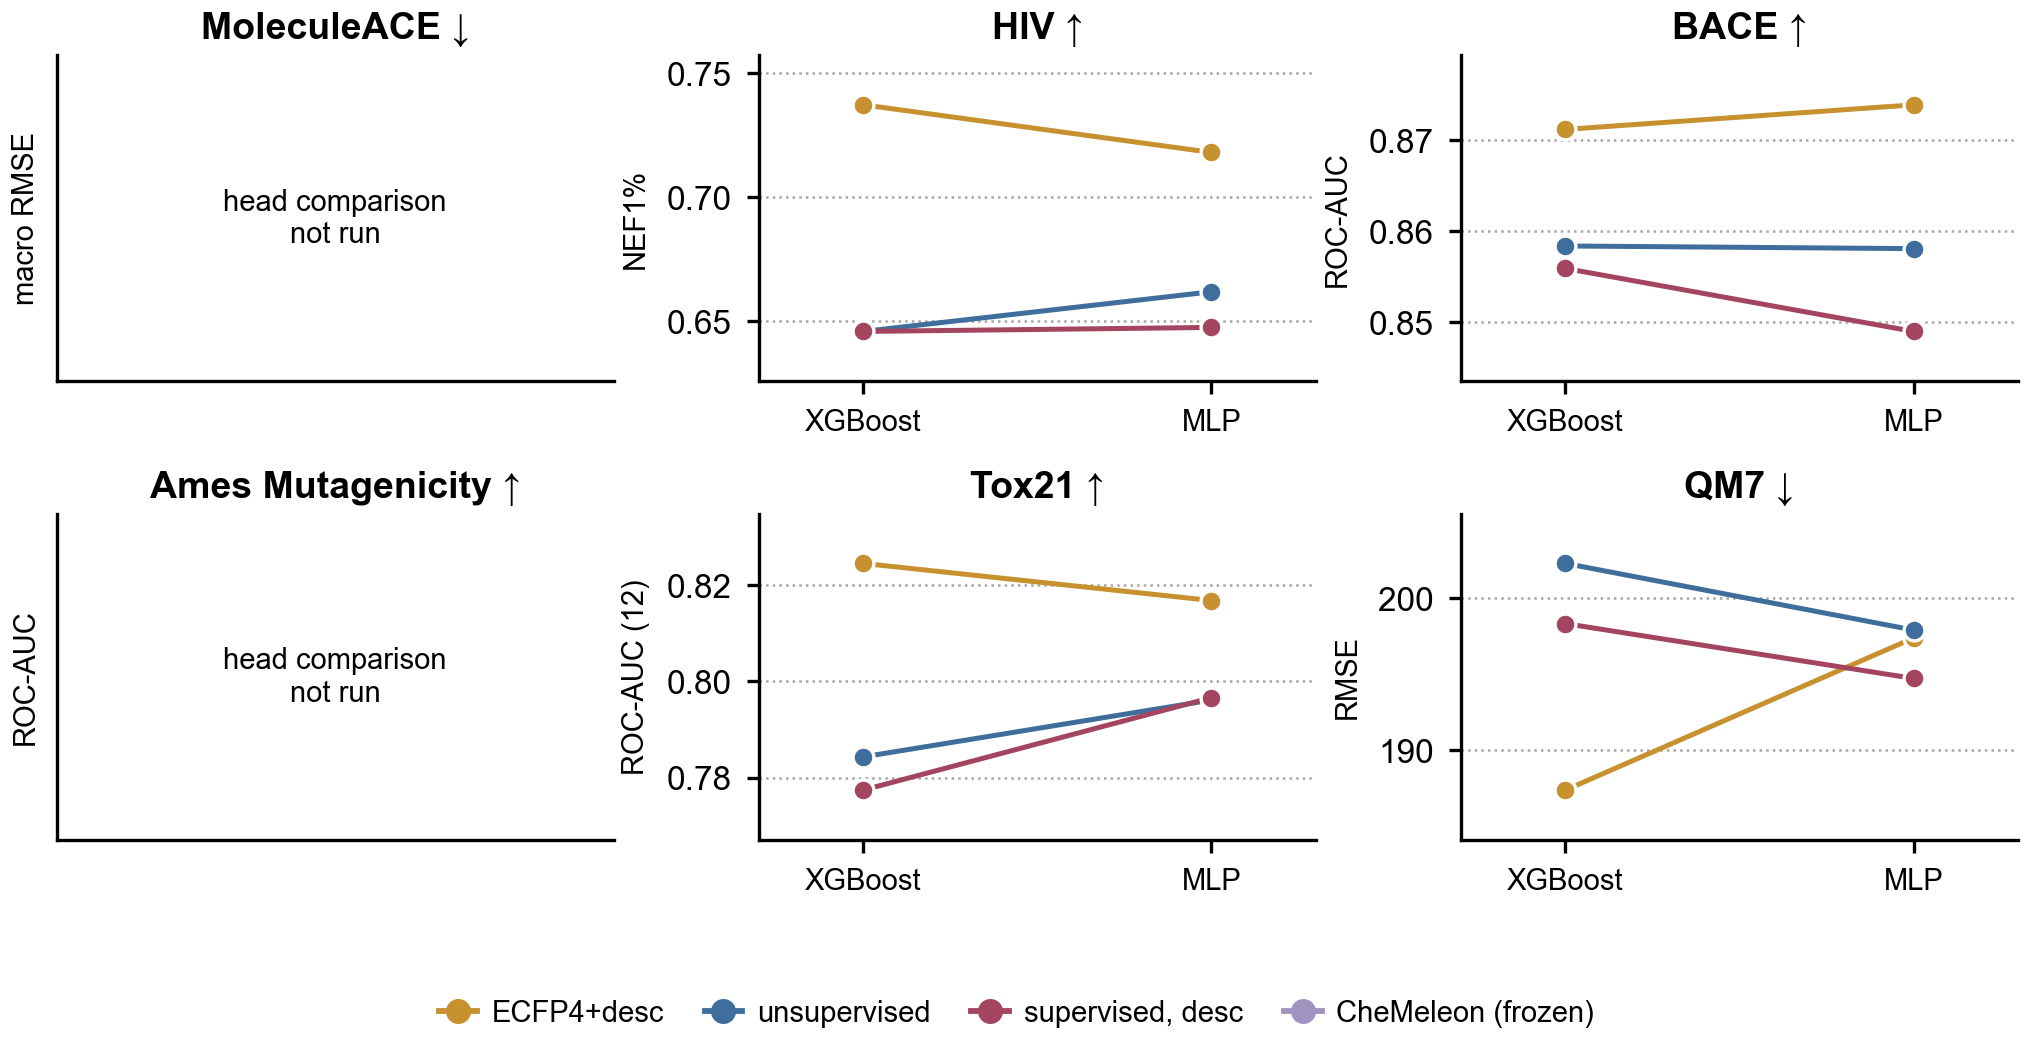
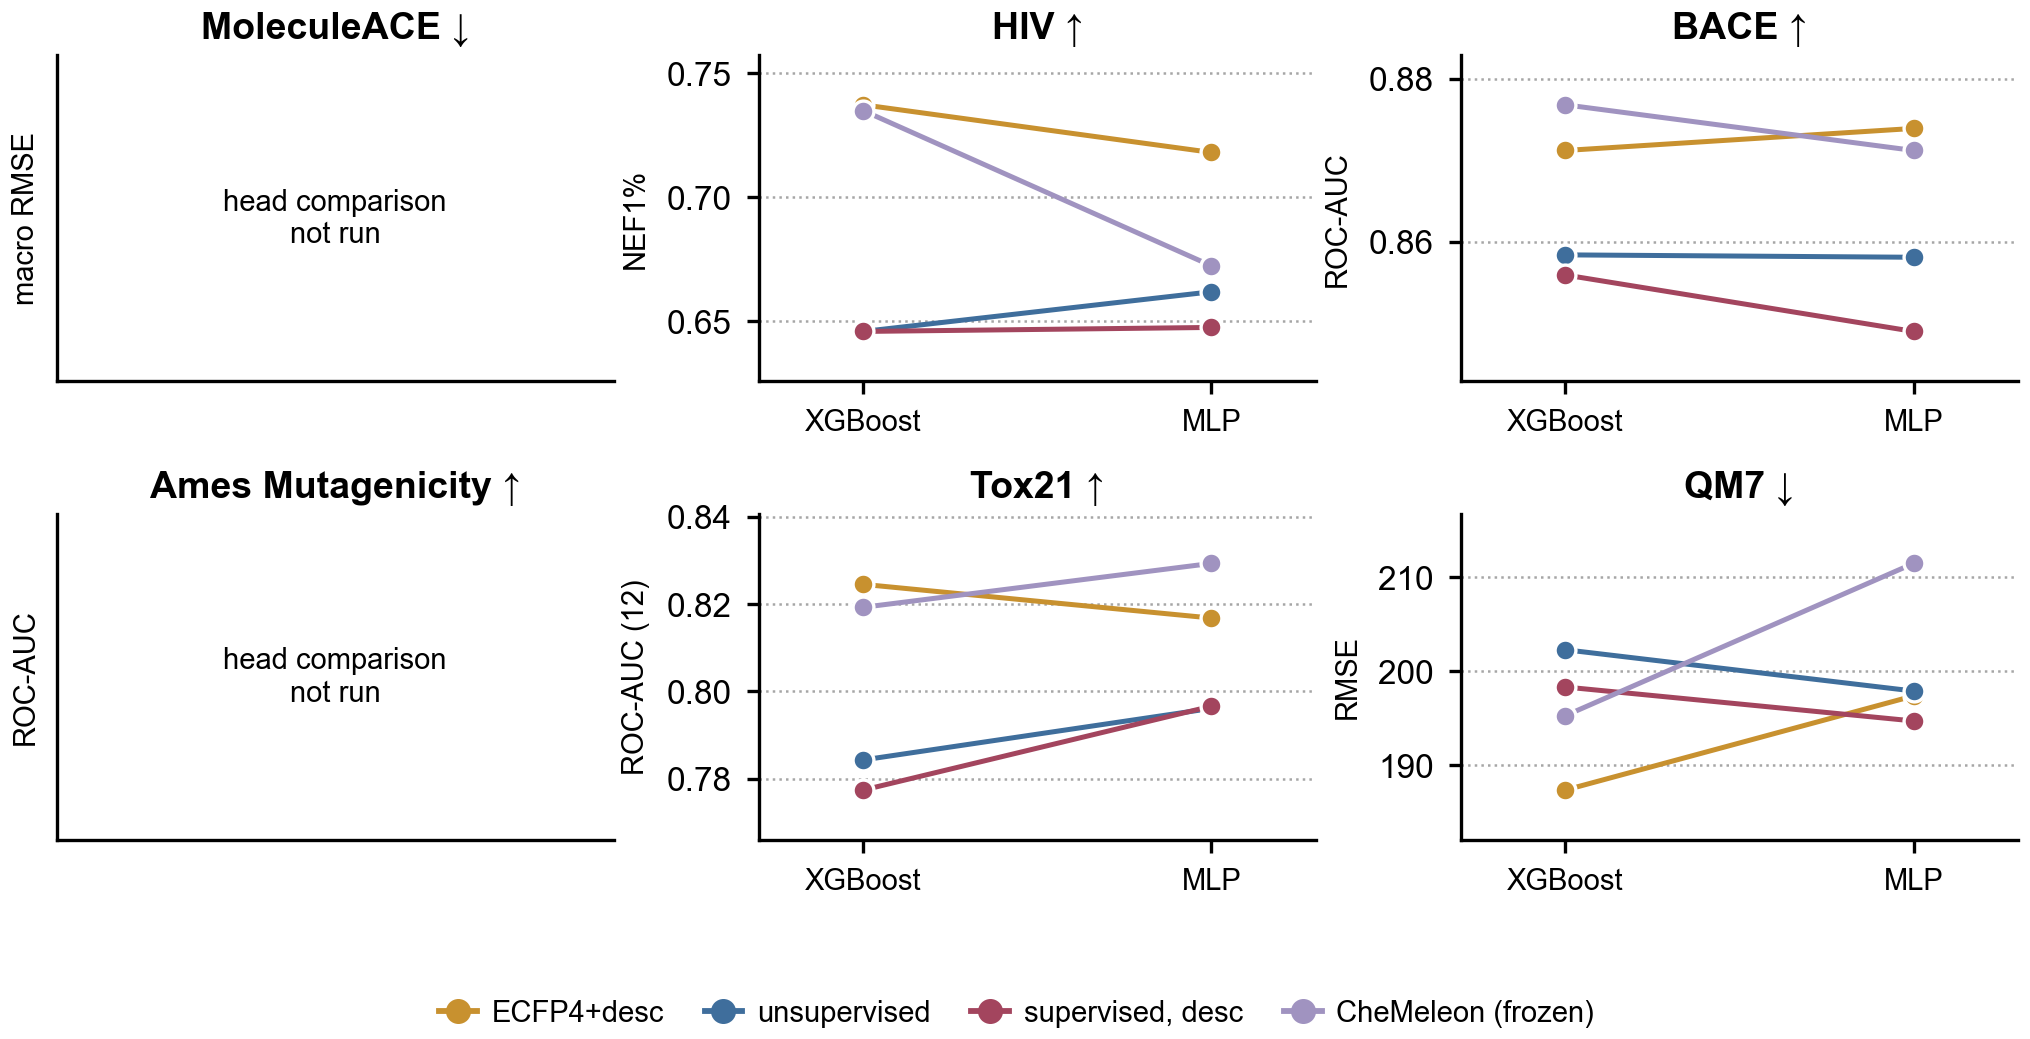
SI fig f: probe-head data landed, and the lines cross on every panel
Pulled the four head dirs from S3 (chemeleon_frozen__xgb was the last).
4 of 6 panels now have all four representations through both heads; MoleculeACE
and Ames still need the suite-track runner.

THE RANKING OF REPRESENTATIONS IS NOT HEAD-INDEPENDENT. It changes on all four
panels that have run:
  BACE   XGBoost puts CheMeleon first, the MLP puts ECFP4+desc first
  Tox21  the reverse
  QM7    ECFP4+desc leads by 8 kcal/mol under XGBoost and is third under the
         MLP, while CheMeleon falls from second to last (195.3 -> 211.5)
  HIV    top two hold, the CLIMB arms swap, CheMeleon loses 0.063 NEF1

CheMeleon moves 16.2 kcal/mol on QM7 between heads -- larger than most
differences this paper reports BETWEEN representations.

This does not overturn fig_A1, which scores each arm through the head it is
normally used with and where the classical anchors lead under both heads. It
does mean a frozen-probe number is a property of the PAIR (representation,
head), so no single-head 'X beats Y' claim should stand without this figure
beside it. Docstring says so.

diff --git a/figures/SI_fig_f.py b/figures/SI_fig_f.py
@@ -13,10 +13,29 @@ because gradient boosting suits 2048 sparse bits and an MLP suits a 512-d dense 
 statement about heads, not about pretraining.
 
 So each representation is scored through BOTH heads on the same splits, seeds and folds, and drawn
-as a SLOPE: left is XGBoost, right is MLP, one line per representation. The question the figure
-answers is whether the lines CROSS. Parallel lines mean the head is a level shift and the ranking
-of representations is head-independent -- which is what the rest of the paper assumes. Crossing
-lines mean the ranking depends on the head and every frozen comparison needs re-reading.
+as a SLOPE: left is XGBoost, right is MLP, one line per representation. The question is whether the
+lines CROSS. Parallel means the head is a level shift and the ranking of representations is
+head-independent -- which is what the rest of the paper assumes.
+
+THE LINES CROSS ON EVERY PANEL THAT HAS RUN (4 of 4: HIV, BACE, Tox21, QM7). The ranking of the
+four representations is NOT the same under the two heads anywhere:
+
+  BACE   XGBoost puts CheMeleon first, the MLP puts ECFP4+desc first
+  Tox21  XGBoost puts ECFP4+desc first, the MLP puts CheMeleon first
+  QM7    XGBoost puts ECFP4+desc first by 8 kcal/mol; under the MLP it is third and
+         CheMeleon falls from second to LAST (195.3 -> 211.5, +16.2)
+  HIV    the top two hold but the CLIMB arms swap, and CheMeleon loses 0.063 NEF1
+
+The size of the effect is the point: CheMeleon moves 16.2 kcal/mol on QM7 and 0.063 NEF1 on HIV
+between heads, which is larger than most differences this paper reports BETWEEN representations.
+
+WHAT THAT DOES AND DOES NOT LICENCE. It does not overturn fig_A1: that figure scores every arm
+through the head each is normally used with, which is the honest engineering comparison, and the
+classical anchors lead it under both heads here. What it does mean is that a frozen-probe number
+is a property of the PAIR (representation, head) and must not be quoted as a property of the
+representation alone -- so any single-head statement of the form "embedding X beats embedding Y"
+needs this figure beside it. The two arms whose ordering is most head-sensitive are exactly the two
+external/classical ones, not the CLIMB pair.
 
 WHICH HALF OF EACH PAIR IS NEW. Three of the four representations are normally scored with an MLP
 probe and the classical anchor with XGBoost, so this figure needs the OTHER half of each pair:
